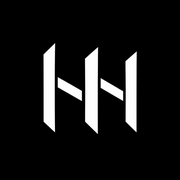
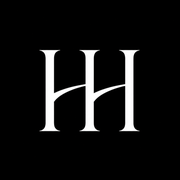
Add files via upload

Changed region(s): [[0.2222, 0.2222, 0.7778, 0.75]]

diff --git a/index.html b/index.html
@@ -24,25 +24,25 @@
 <link rel="icon" type="image/png" sizes="256x256" href="/favicon.png"/>
 <link rel="icon" type="image/x-icon" sizes="any" href="/favicon.ico"/>
 <link rel="apple-touch-icon" sizes="180x180" href="/apple-touch-icon.png"/>
-<meta property="og:image:alt" content="Hirun Heshatha logo"/>
+<meta property="og:image:alt" content="Hirun Heshatha HH logo"/>
 <meta content="website" property="og:type"/>
 <meta content="Hirun Heshatha | AI &amp; Tech Entrepreneur &amp; Investor" property="og:title"/>
 <meta content="Hirun Heshatha is an AI &amp; Tech Entrepreneur &amp; Investor in Sri Lanka, focused on AI, investing, and emerging technology." property="og:description"/>
 <meta content="https://hirunheshatha.com/" property="og:url"/>
 <meta content="Hirun Heshatha" property="og:site_name"/>
-<meta content="https://hirunheshatha.com/social-logo.png" property="og:image"/>
-<meta content="1200" property="og:image:width"/>
-<meta content="630" property="og:image:height"/>
+<meta content="https://hirunheshatha.com/logo.png" property="og:image"/>
+<meta content="954" property="og:image:width"/>
+<meta content="895" property="og:image:height"/>
 <meta content="image/png" property="og:image:type"/>
-<meta content="Hirun Heshatha logo" property="og:image:alt"/>
-<meta content="https://hirunheshatha.com/social-logo.png" property="og:image:secure_url"/>
+<meta content="Hirun Heshatha HH logo" property="og:image:alt"/>
+<meta content="https://hirunheshatha.com/logo.png" property="og:image:secure_url"/>
 <meta content="@hirunheshathaX" name="twitter:site"/>
 <meta content="en_LK" property="og:locale"/>
 <meta content="summary_large_image" name="twitter:card"/>
 <meta content="Hirun Heshatha | AI &amp; Tech Entrepreneur &amp; Investor" name="twitter:title"/>
 <meta content="Hirun Heshatha is an AI &amp; Tech Entrepreneur &amp; Investor in Sri Lanka, focused on AI, investing, and emerging technology." name="twitter:description"/>
-<meta content="https://hirunheshatha.com/social-logo.png" name="twitter:image"/>
-<meta content="Hirun Heshatha logo" name="twitter:image:alt"/>
+<meta content="https://hirunheshatha.com/logo.png" name="twitter:image"/>
+<meta content="Hirun Heshatha HH logo" name="twitter:image:alt"/>
 <meta content="@hirunheshathaX" name="twitter:creator"/>
 <link href="https://fonts.googleapis.com" rel="preconnect"/>
 <link crossorigin="" href="https://fonts.gstatic.com" rel="preconnect"/>
@@ -93,39 +93,6 @@
     }
   }
   </script>
-<style id="new-brand-logo-css">
-  .site-logo-image { background: #000; }
-  .site-footer-logo {
-    display: inline-flex;
-    width: 56px;
-    height: 56px;
-    align-items: center;
-    justify-content: center;
-    overflow: hidden;
-    border: 1px solid rgba(255,255,255,.12);
-    border-radius: 9999px;
-    transition: border-color .22s ease, transform .22s ease;
-  }
-  .site-footer-logo:hover {
-    border-color: rgba(255,255,255,.24);
-    transform: translateY(-2px);
-  }
-  .site-footer-logo img {
-    width: 100%;
-    height: 100%;
-    object-fit: contain;
-    display: block;
-  }
-  .site-footer-brand {
-    display: flex;
-    flex-direction: column;
-    align-items: flex-start;
-    gap: 10px;
-  }
-  @media (max-width: 767px) {
-    .site-footer-brand { align-items: center; text-align: center; }
-  }
-</style>
 <style id="site-core-css">
    @layer base {
   html, body { margin: 0; padding: 0; }
@@ -334,7 +301,7 @@ footer { margin-top: 0 !important; padding-top: clamp(40px, 5vw, 64px) !importan
   }
 }
   </style>
-<script type="application/ld+json">{"@context":"https://schema.org","@graph":[{"@type":"WebSite","@id":"https://hirunheshatha.com/#website","url":"https://hirunheshatha.com/","name":"Hirun Heshatha","alternateName":["HH","hirunheshatha.com"],"description":"Hirun Heshatha is an AI & Tech Entrepreneur & Investor in Sri Lanka, focused on AI, investing, and emerging technology.","publisher":{"@id":"https://hirunheshatha.com/#person"},"inLanguage":"en-LK"},{"@type":"ProfilePage","@id":"https://hirunheshatha.com/#profile","url":"https://hirunheshatha.com/","name":"Hirun Heshatha | AI Entrepreneur, Investor & Technology","mainEntity":{"@id":"https://hirunheshatha.com/#person"},"isPartOf":{"@id":"https://hirunheshatha.com/#website"},"inLanguage":"en-LK"},{"@type":"Person","@id":"https://hirunheshatha.com/#person","name":"Hirun Heshatha","url":"https://hirunheshatha.com/","jobTitle":"AI & Tech Entrepreneur and Investor","description":"Hirun Heshatha is an AI & Tech Entrepreneur & Investor in Sri Lanka, focused on AI, investing, and emerging technology.","sameAs":["https://web.facebook.com/hirunheshatha.page","https://www.instagram.com/hirun_heshatha/","https://www.youtube.com/@hirunheshatha","https://www.tiktok.com/@hirun_heshatha","https://x.com/hirunheshathaX","https://www.linkedin.com/in/hirunheshatha/","https://www.reddit.com/user/hirunheshatha/","https://www.threads.com/@hirun_heshatha","https://www.snapchat.com/@hirunheshatha","https://www.pinterest.com/hirun_heshatha/","https://github.com/hirunheshatha","https://t.me/hirunheshatha"],"worksFor":{"@type":"Organization","name":"Hirun Heshatha","url":"https://hirunheshatha.com/","logo":{"@type":"ImageObject","url":"https://hirunheshatha.com/logo.png","contentUrl":"https://hirunheshatha.com/logo.png","width":1254,"height":1254}},"image":{"@type":"ImageObject","url":"https://hirunheshatha.com/logo.png","caption":"Hirun Heshatha logo"},"knowsAbout":["Artificial intelligence","Emerging technology","Technology investing","Financial markets","Entrepreneurship","Scalable digital systems"],"email":"mailto:hello@hirunheshatha.com","telephone":"+94 76 393 2003"},{"@type":"ItemList","@id":"https://hirunheshatha.com/#insights-list","name":"Hirun Heshatha Insights","itemListElement":[{"@type":"ListItem","position":1,"name":"AI is moving from feature to infrastructure","url":"https://hirunheshatha.com/#insight-ai-infrastructure"},{"@type":"ListItem","position":2,"name":"The investor’s edge is often better questions","url":"https://hirunheshatha.com/#insight-investor-questions"},{"@type":"ListItem","position":3,"name":"Build for leverage, not noise","url":"https://hirunheshatha.com/#insight-build-for-leverage"},{"@type":"ListItem","position":4,"name":"AI-native products are built around loops","url":"https://hirunheshatha.com/#insight-ai-native-workflows"},{"@type":"ListItem","position":5,"name":"Clarity matters before consensus","url":"https://hirunheshatha.com/#insight-clarity-before-consensus"},{"@type":"ListItem","position":6,"name":"The best tools disappear into the workflow","url":"https://hirunheshatha.com/#insight-tools-disappear"}]}]}</script>
+<script type="application/ld+json">{"@context":"https://schema.org","@graph":[{"@type":"WebSite","@id":"https://hirunheshatha.com/#website","url":"https://hirunheshatha.com/","name":"Hirun Heshatha","alternateName":["HH","hirunheshatha.com"],"description":"Hirun Heshatha is an AI & Tech Entrepreneur & Investor in Sri Lanka, focused on AI, investing, and emerging technology.","publisher":{"@id":"https://hirunheshatha.com/#person"},"inLanguage":"en-LK"},{"@type":"ProfilePage","@id":"https://hirunheshatha.com/#profile","url":"https://hirunheshatha.com/","name":"Hirun Heshatha | AI Entrepreneur, Investor & Technology","mainEntity":{"@id":"https://hirunheshatha.com/#person"},"isPartOf":{"@id":"https://hirunheshatha.com/#website"},"inLanguage":"en-LK"},{"@type":"Person","@id":"https://hirunheshatha.com/#person","name":"Hirun Heshatha","url":"https://hirunheshatha.com/","jobTitle":"AI & Tech Entrepreneur and Investor","description":"Hirun Heshatha is an AI & Tech Entrepreneur & Investor in Sri Lanka, focused on AI, investing, and emerging technology.","sameAs":["https://web.facebook.com/hirunheshatha.page","https://www.instagram.com/hirun_heshatha/","https://www.youtube.com/@hirunheshatha","https://www.tiktok.com/@hirun_heshatha","https://x.com/hirunheshathaX","https://www.linkedin.com/in/hirunheshatha/","https://www.reddit.com/user/hirunheshatha/","https://www.threads.com/@hirun_heshatha","https://www.snapchat.com/@hirunheshatha","https://www.pinterest.com/hirun_heshatha/","https://github.com/hirunheshatha","https://t.me/hirunheshatha"],"worksFor":{"@type":"Organization","name":"Hirun Heshatha"},"image":{"@type":"ImageObject","url":"https://hirunheshatha.com/logo.png","caption":"Hirun Heshatha HH logo"},"knowsAbout":["Artificial intelligence","Emerging technology","Technology investing","Financial markets","Entrepreneurship","Scalable digital systems"],"email":"mailto:hello@hirunheshatha.com","telephone":"+94 76 393 2003"},{"@type":"ItemList","@id":"https://hirunheshatha.com/#insights-list","name":"Hirun Heshatha Insights","itemListElement":[{"@type":"ListItem","position":1,"name":"AI is moving from feature to infrastructure","url":"https://hirunheshatha.com/#insight-ai-infrastructure"},{"@type":"ListItem","position":2,"name":"The investor’s edge is often better questions","url":"https://hirunheshatha.com/#insight-investor-questions"},{"@type":"ListItem","position":3,"name":"Build for leverage, not noise","url":"https://hirunheshatha.com/#insight-build-for-leverage"},{"@type":"ListItem","position":4,"name":"AI-native products are built around loops","url":"https://hirunheshatha.com/#insight-ai-native-workflows"},{"@type":"ListItem","position":5,"name":"Clarity matters before consensus","url":"https://hirunheshatha.com/#insight-clarity-before-consensus"},{"@type":"ListItem","position":6,"name":"The best tools disappear into the workflow","url":"https://hirunheshatha.com/#insight-tools-disappear"}]}]}</script>
 <style id="get-in-touch-auto-animation">
   /* Continuous, subtle attention animation for the hero Get in Touch CTA. */
   @keyframes getInTouchPulse {
@@ -2689,6 +2656,8 @@ img, svg, video, canvas { max-width: 100%; }
 </style>
 <style id="logo-display-fix">
 .site-logo-image{display:block}
+.site-logo-fallback{display:none;width:100%;height:100%;align-items:center;justify-content:center;background:#fff}
+.site-logo-fallback svg{display:block;width:100%;height:100%}
 .site-logo:focus-visible{outline:2px solid rgba(255,255,255,.8);outline-offset:3px}
 </style>
 
@@ -5623,7 +5592,13 @@ img, svg, video, canvas { max-width: 100%; }
 </nav>
 <div class="flex items-center gap-3 md:gap-6 shrink-0">
 <a aria-label="Hirun Heshatha — back to top" class="site-logo w-10 h-10 flex items-center justify-center shrink-0 rounded-full border border-white/15 overflow-hidden transition-colors duration-300 hover:border-white/40" href="#home">
-<img alt="Hirun Heshatha logo" title="Hirun Heshatha" class="site-logo-image w-full h-full object-contain" fetchpriority="high" decoding="sync" height="40" loading="eager" src="/logo.png" width="40"/>
+<img alt="Hirun Heshatha logo" title="Hirun Heshatha" class="site-logo-image w-full h-full object-contain" fetchpriority="high" decoding="sync" height="40" loading="eager" src="/logo.png?v=3" width="40" onerror="this.style.display='none';this.nextElementSibling.style.display='flex';"/>
+<span class="site-logo-fallback" aria-hidden="true">
+<svg viewBox="0 0 40 40" width="40" height="40" role="img" focusable="false">
+<circle cx="20" cy="20" r="20" fill="#fff"></circle>
+<text x="20" y="25" text-anchor="middle" font-family="Montserrat, Arial, sans-serif" font-size="13" font-weight="700" fill="#000">HH</text>
+</svg>
+</span>
 </a>
 <button aria-controls="mobile-nav" aria-expanded="false" aria-label="Open menu" class="md:hidden flex items-center justify-center w-8 h-8 text-white" id="mobile-menu-btn" type="button">
 <span aria-hidden="true" class="material-symbols-outlined text-[26px]">
@@ -6863,9 +6838,6 @@ img, svg, video, canvas { max-width: 100%; }
   <div class="site-footer-glow" aria-hidden="true"></div>
   <div class="max-w-[1280px] mx-auto px-margin-mobile lg:px-margin-desktop site-footer-shell">
     <div class="site-footer-brand">
-      <a class="site-footer-logo" href="#home" aria-label="Hirun Heshatha — back to top">
-        <img src="/logo.png" alt="Hirun Heshatha logo" width="56" height="56" loading="lazy" decoding="async"/>
-      </a>
       <span class="site-footer-name">Hirun Heshatha</span>
       <span class="site-footer-tagline">AI × Tech Entrepreneur | Investor | Shaping the Future</span>
     </div>
